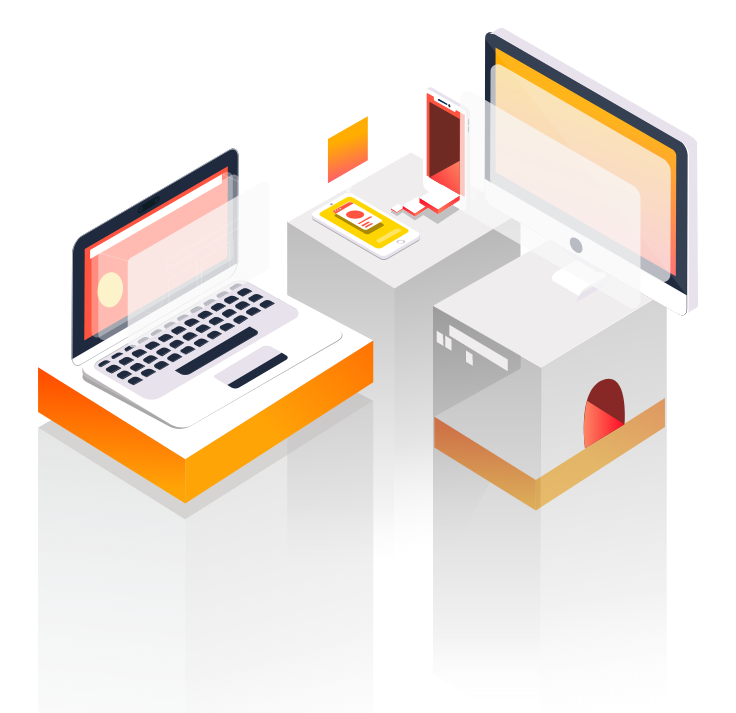
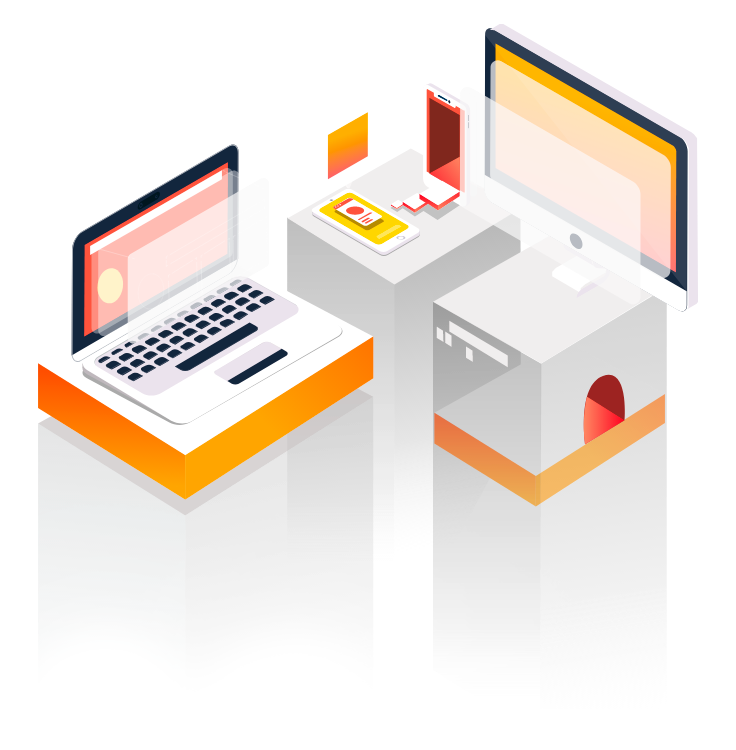
Fix header

diff --git a/src/css/base.scss b/src/css/base.scss
@@ -33,7 +33,9 @@ html *
 		padding-top: 10vh;
   }
   .mockup{
-		width: 66%;
+		width: 75%;
+		// margin-right: 60px;
+		// margin-top: 40px;
 		margin: 0 auto;
 		height: auto;
   }
@@ -161,7 +163,7 @@ html *
 	}
   .modules{
     margin-top: -25px;
-    width: 65%;
+    width: 70rem;
   }
 }
 
